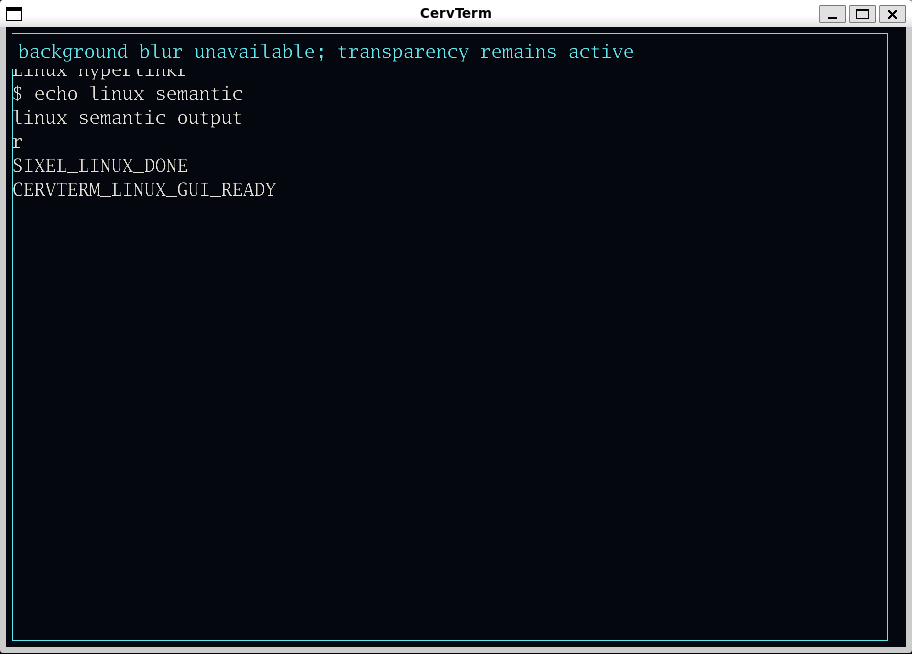
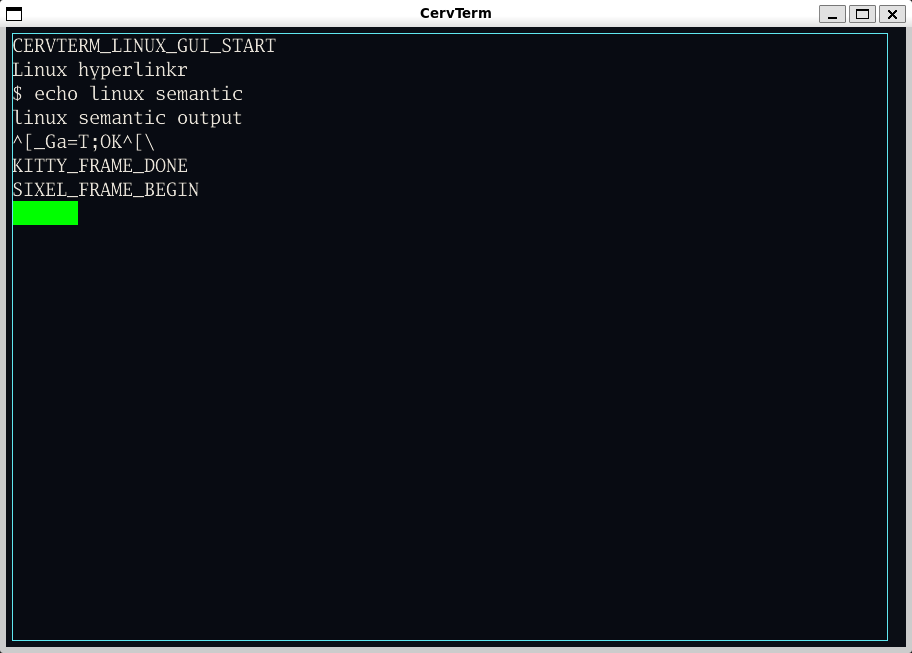
docs(validation): record protocol transport boundaries

Changed region(s): [[0.0, 0.0613, 0.3377, 0.3675], [0.0, 0.9801, 1.0, 1.0], [0.3684, 0.0613, 0.7061, 0.0919]]

diff --git a/docs/validation/phase-15-platform-qualification.md b/docs/validation/phase-15-platform-qualification.md
@@ -23,9 +23,9 @@ The initial RC1 qualification exposed repeatable Windows heap termination `0xc00
 Two real GUI runs used a bounded helper emitting ordinary text, OSC 8, OSC 133 semantic zones, and Kitty/Sixel/iTerm envelopes:
 
 - all graphics and accessibility disabled: [screenshot](../assets/phase15-windows-disabled.png);
-- all three graphics protocols plus visible-only experimental accessibility enabled: [screenshot](../assets/phase15-windows-enabled.png).
+- all three graphics flags plus visible-only experimental accessibility enabled: [screenshot](../assets/phase15-windows-enabled.png).
 
-Both windows became visible, remained responsive during a five-second idle sample, retained text after all envelopes, captured a screenshot, processed `WM_CLOSE`, and exited zero without panic/fatal diagnostics. The enabled run exercised real OpenGL context/cache/placement activation; this is a bounded qualification fixture, not broad protocol conformance.
+Both windows became visible, remained responsive during a five-second idle sample, retained ordinary text, captured a screenshot, processed `WM_CLOSE`, and exited zero without panic/fatal diagnostics. The enabled run committed and visibly drew the accepted iTerm PNG as the orange 4x2-cell image, exercising the real OpenGL cache/placement path. Windows ConPTY filtered APC Kitty and DCS Sixel bytes before CervTerm's parser (confirmed by raw ConPTY capture), so those two protocols are not claimed as Windows visual PASS rows. This is a bounded qualification fixture, not broad protocol conformance.
 
 ### Process comparison
 
@@ -41,7 +41,7 @@ Three alternating Phase 0/candidate runs used the same 900x620 helper window. Me
 | Peak working set | 109,817,856 B | 111,230,976 B | +1.29% |
 | Idle CPU, one-core scale | 0.5207% | 0.5208% | effectively unchanged |
 
-All remain below the Phase 15 15% investigation threshold. A separate enabled graphics/accessibility run measured 313.54 ms startup, 115,851,264 B working set, 0.3125% idle CPU, and clean exit.
+All remain below the Phase 15 15% investigation threshold. A separate final enabled graphics/accessibility run measured 261.39 ms startup, 116,228,096 B working set, 0.625% idle CPU, visible iTerm output, and clean exit.
 
 ## Linux amd64
 
@@ -58,7 +58,7 @@ The host lacks a system emoji package; qualification supplied the same pinned pa
 
 ### Real GUI
 
-**Result: PASS with WSLg scope.** GLFW/OpenGL tests and build passed against user-extracted Ubuntu development packages. A WSLg/X11 real window then ran with Mesa software OpenGL, all image protocols enabled, emitted text/OSC/Sixel fixture traffic, produced a [cropped screenshot](../assets/phase15-linux-wslg.png), accepted an X11 window-close event, and exited zero.
+**Result: PASS with WSLg scope.** GLFW/OpenGL tests and build passed against user-extracted Ubuntu development packages. A WSLg/X11 real window then ran with Mesa software OpenGL and all image flags enabled. The Unix PTY preserved Kitty APC (the fixed `OK` reply was echoed by the fixture) and visibly rendered the accepted Sixel frame as the green rectangle. The run produced a [cropped screenshot](../assets/phase15-linux-wslg.png), accepted an X11 window-close event, and exited zero.
 
 Expected platform diagnostics reported unsupported KWin blur/titlebar integration and no Segoe UI Emoji. This qualifies WSLg/X11 software-GL integration only; it does not claim broad native Linux desktop/driver support.
 
